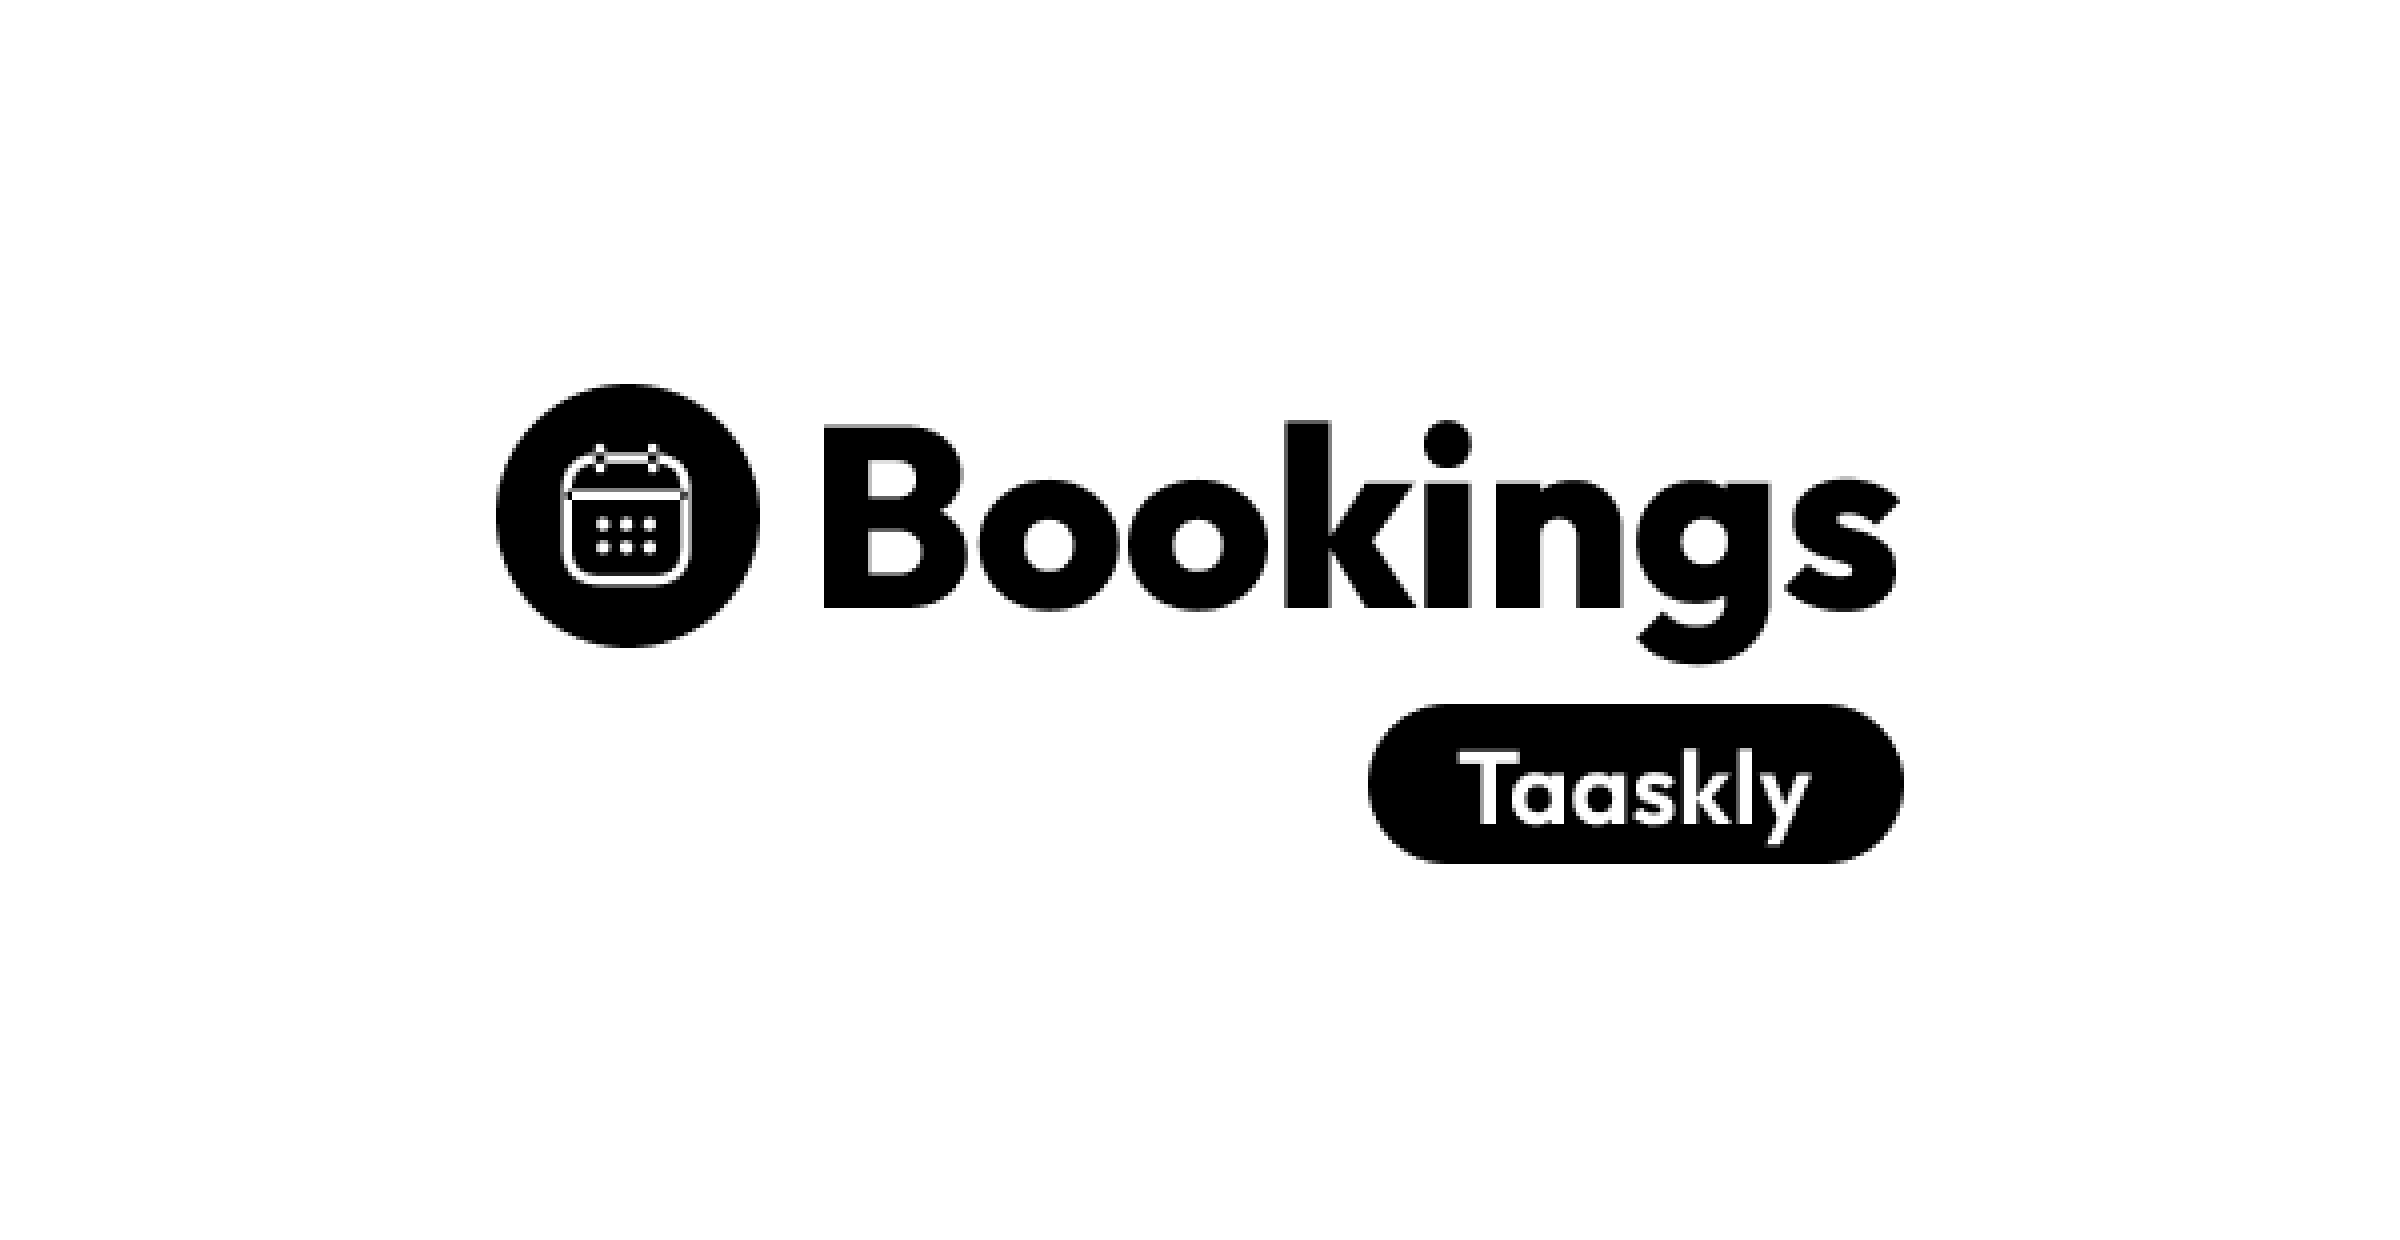
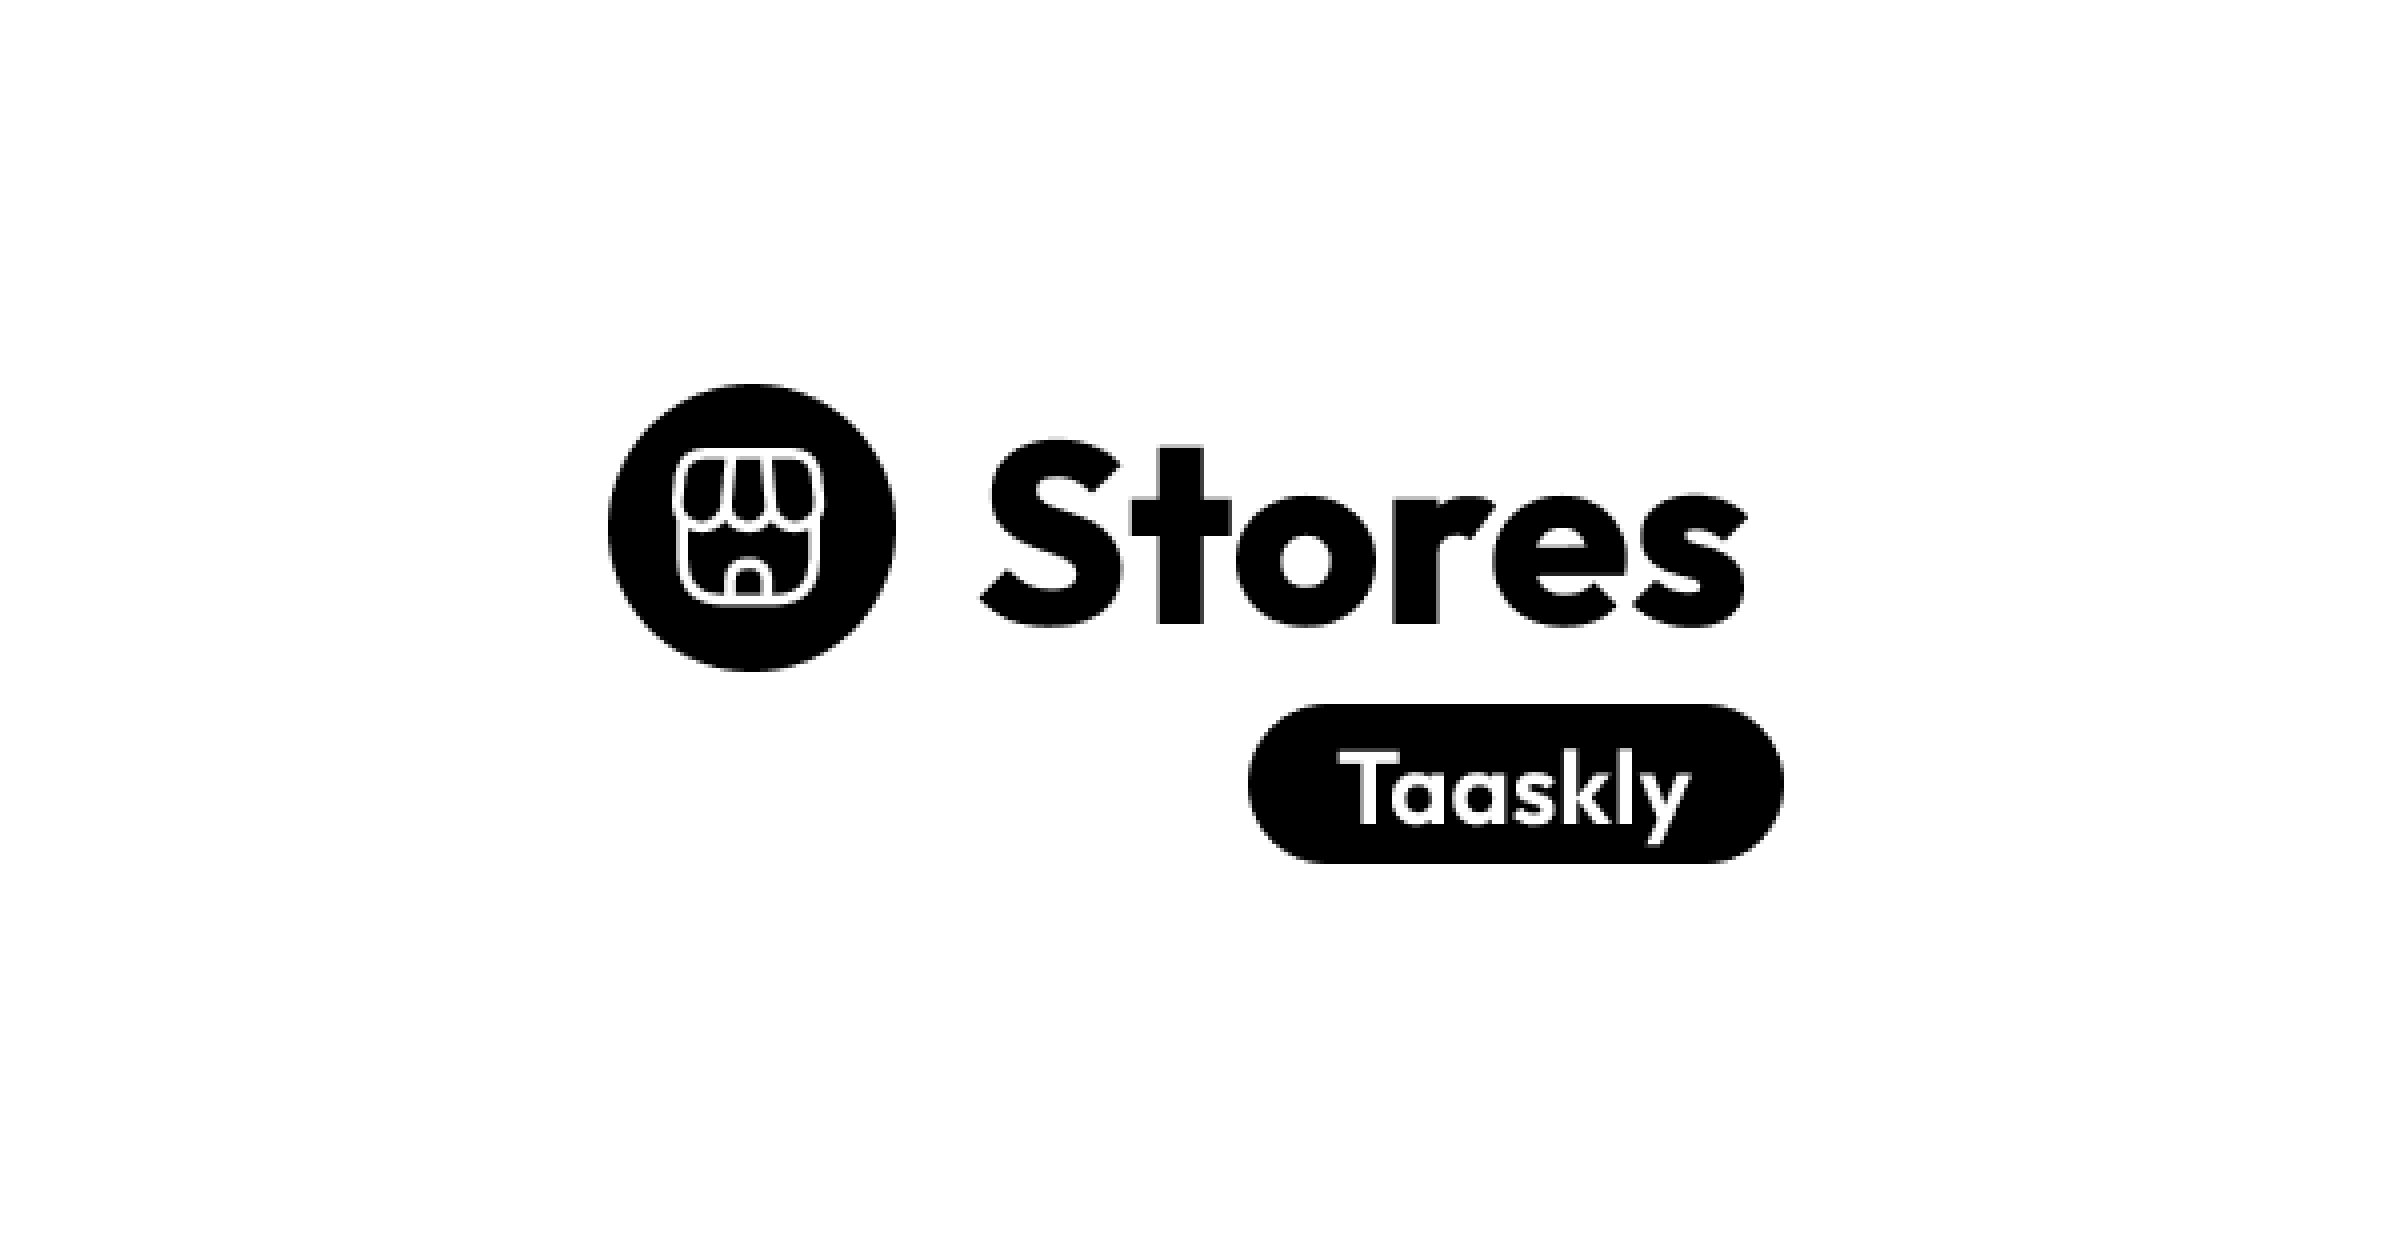
init

Changed region(s): [[0.1875, 0.3065, 0.8125, 0.5516], [0.5, 0.5516, 0.8125, 0.7048]]

diff --git a/app_config.ts b/app_config.ts
@@ -6,7 +6,7 @@
 export default {
     keepalive: true,
     head: {
-        title: 'Bookings - Simplified Bookings, Amplified Business',
+        title: 'Store - Simplified Store, Amplified Business',
         htmlAttrs: { lang: 'en' },
         viewport: 'width=device-width,initial-scale=1,viewport-fit=cover',
         bodyAttrs: { class: 'overflow-x-hidden' },
@@ -19,38 +19,38 @@ export default {
             },
             {
                 name: 'title',
-                content: 'Bookings - Simplified Bookings, Amplified Business'
+                content: 'Store - Simplified Store, Amplified Business'
             },
             {
                 name: 'description',
-                content: 'Create personalized booking pages, manage appointments effortlessly, and get paid seamlessly. Tailored for African entrepreneurs, perfect for everyone.'
+                content: 'Create your online store instantly, manage products effortlessly, and process payments seamlessly. Built for African businesses, perfect for everyone.'
             },
             {
                 name: 'twitter:title',
-                content: 'Bookings - Simplified Bookings, Amplified Business'
+                content: 'Store - Simplified Store, Amplified Business'
             },
-            { name: 'twitter:image', content: 'https://bookings.taaskly.site/og2.png' },
+            { name: 'twitter:image', content: 'https://stores.taaskly.site/og2.png' },
             {
                 name: 'twitter:description',
-                content: 'Create personalized booking pages, manage appointments effortlessly, and get paid seamlessly. Tailored for African entrepreneurs, perfect for everyone.'
+                content: 'Create your online store instantly, manage products effortlessly, and process payments seamlessly. Built for African businesses, perfect for everyone.'
             },
             { name: 'twitter:card', content: 'summary_large_image' },
             { name: 'twitter:site', content: '@kromate_24' },
             { name: 'twitter:creator', content: '@kromate_24' },
             {
                 property: 'og:title',
-                content: 'Bookings | Simplified Bookings, Amplified Business'
+                content: 'Store | Simplified Store, Amplified Business'
             },
             { name: 'google-site-verification', content: 'tWttF6w3RHPlNPm5u7KSRgh4lgkRUZ2Bwl6QzECjY18' },
             { property: 'og:type', content: 'website' },
-            { property: 'og:url', content: 'https://bookings.taaskly.site/' },
-            { property: 'og:image', content: 'https://bookings.taaskly.site/og2.png' },
-            { property: 'og:image:secure_url', content: 'https://bookings.taaskly.site/og2.png' },
+            { property: 'og:url', content: 'https://stores.taaskly.site/' },
+            { property: 'og:image', content: 'https://stores.taaskly.site/og2.png' },
+            { property: 'og:image:secure_url', content: 'https://stores.taaskly.site/og2.png' },
             { property: 'og:image:type', content: 'image/png' },
-            { property: 'og:site_name', content: 'Bookings' },
+            { property: 'og:site_name', content: 'Store' },
             {
                 property: 'og:description',
-                content: 'Create personalized booking pages, manage appointments effortlessly, and get paid seamlessly. Tailored for African entrepreneurs, perfect for everyone.'
+                content: 'Create your online store instantly, manage products effortlessly, and process payments seamlessly. Built for African businesses, perfect for everyone.'
             },
 
             { name: 'format-detection', content: 'telephone=no' }

diff --git a/src/components/pages/Hero.vue b/src/components/pages/Hero.vue
@@ -2,14 +2,14 @@
 	<main class=" h-full container grid lg:grid-cols-2 gap-12 items-center justify-start  md:py-32 py-10">
 		<section class="md:text-start text-center px-4">
 			<h1 class="md:text-7xl text-5xl font-extrabold mb-4 pathway leading-[1.2]">
-				Booking Simplified
+				Store Simplified
 			</h1>
 			<p class="md:text-2xl text-lg font-medium md:font-normal text-dark mb-8 ">
-				Create personalized booking pages, manage appointments effortlessly, and get paid seamlessly. Tailored for African entrepreneurs, perfect for everyone.
+				Create your online store instantly, manage products effortlessly, and process payments seamlessly. Built for African businesses, perfect for everyone.
 			</p>
 			<div class="flex gap-4 items-center w-full justify-center md:justify-start">
 				<nuxt-link to="/booking-types" class="bg-black text-white md:py-4 py-3 md:px-6 px-8 rounded-md md:text-[17px]">
-					Create a booking page
+					Create a store
 				</nuxt-link>
 				<!-- <a class="md:text-xl font-semibold underline " href="https://www.youtube.com/watch?v=f3XQRsgvRTU&ab_channel=Kromate" target="_blank" rel="noopener noreferrer">Watch a Demo</a> -->
 			</div>
